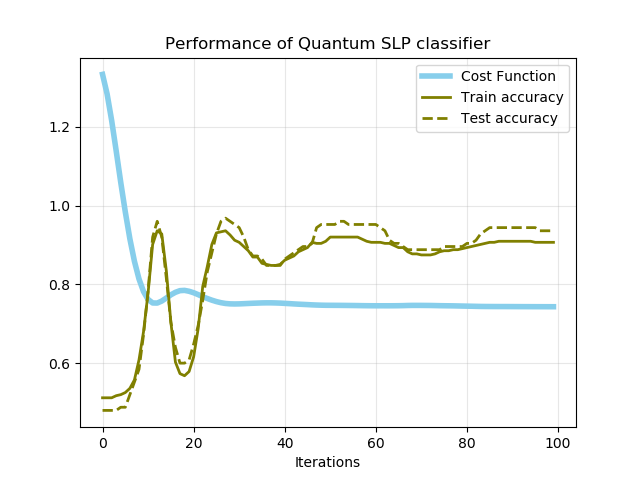
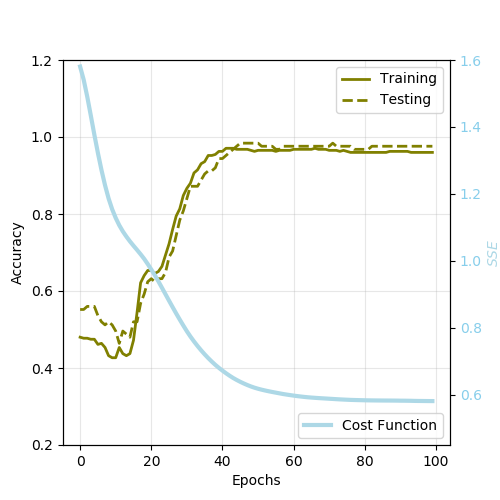
All experiments ok! code to fix

diff --git a/Data_viz.py b/Data_viz.py
@@ -1,19 +1,19 @@
 import seaborn as sns, numpy as np, matplotlib.pyplot as plt, pandas as pd
-n=1000
-m1=-3
-m2=3
-
-df1 = pd.DataFrame((np.random.randn(n)+m1).reshape(-1,2), columns=['x','y'])
-df2 = pd.DataFrame((np.random.randn(n)+m2).reshape(-1,2), columns=['x','y'])
-df3 = pd.DataFrame(df1.values+df2.values, columns=['x','y'])
-df1['kind'] = 'dist1'
-df2['kind'] = 'dist2'
-df3['kind'] = 'dist1+dist2'
-df=pd.concat([df1,df2,df3])
+# n=1000
+# m1 = -3
+# m2 = 3
+#
+# df1 = pd.DataFrame((np.random.randn(n)+m1).reshape(-1,2), columns=['x','y'])
+# df2 = pd.DataFrame((np.random.randn(n)+m2).reshape(-1,2), columns=['x','y'])
+# df3 = pd.DataFrame(df1.values+df2.values, columns=['x','y'])
+# df1['kind'] = 'dist1'
+# df2['kind'] = 'dist2'
+# df3['kind'] = 'dist1+dist2'
+# df=pd.concat([df1,df2,df3])
 
 df = pd.DataFrame(X, columns=['$x_1$','$x_2$'])
-df['kind'] = Y = np.where(y == 0, 'class -1', 'class 1')
-
+Y = np.where(y == 0, 'class 0', 'class 1')
+df['kind'] = Y
 
 def multivariateGrid(col_x, col_y, col_k, df, k_is_color=False, scatter_alpha=.5):
     def colored_scatter(x, y, c=None):
@@ -78,15 +78,27 @@ import numpy as np
 import pandas as pd
 
 iterations = range(100)
+plt.figure(figsize=(5,5))
 # multiple line plot
-plt.plot(iterations, cost_vector, marker='', markerfacecolor='blue', markersize=12, color='skyblue', linewidth=4, label="Cost Function")
-plt.plot(iterations, train_vector, marker='', color='olive', linewidth=2, label="Train accuracy")
-plt.plot(iterations, val_vector, marker='', color='olive', linewidth=2, linestyle='dashed', label="Test accuracy")
+#plt.figure(figsize=(5,5))
+plt.tight_layout()
+plt.plot(iterations, train_vector, marker='', color='olive', linewidth=2, label="Training")
+plt.plot(iterations, val_vector, marker='', color='olive', linewidth=2, linestyle='dashed', label="Testing")
 plt.grid(alpha=0.3)
 plt.legend()
-plt.title('Performance of Quantum SLP classifier')
-plt.xlabel('Iterations')
+plt.ylim(0.2,1.2)
+#plt.title('Performance of Quantum SLP classifier')
+plt.xlabel('Epochs')
+plt.ylabel('Accuracy')
+plt2=plt.twinx()
+# plt.plot(iterations, cost_vector, marker='', markerfacecolor='blue', markersize=12, color='skyblue', linewidth=4, label="Cost Function")
+plt.plot(iterations, cost_vector, marker='', markerfacecolor='lightblue', markersize=12, color='lightblue', linewidth=3, label="Cost Function")
+plt2.set_ylabel(r"$SSE$",color="lightblue")
+plt2.tick_params(axis='y', labelcolor='skyblue')
+plt.ylim(0.45,1.6)
+plt2.legend(loc = 'lower right')
 plt.savefig('Performance.png')
 plt.show()
 plt.close()
 
+#training metric

diff --git a/Quantum _SLP_simulated_data.py b/Quantum _SLP_simulated_data.py
@@ -11,14 +11,14 @@ from Utils_qml import *
 
 # Simulated data
 from sklearn import datasets
-X, y = datasets.make_blobs(n_samples=500, centers=2,
+X, y = datasets.make_blobs(n_samples=500, centers=[[0.2, 0.8],[0.7, 0.1]],
                            n_features=2, center_box=(0, 1),
-                           cluster_std = 0.15, random_state = 5432)
+                           cluster_std = 0.2, random_state = 5432)
 plt.plot(X[:, 0][y == 0], X[:, 1][y == 0], 'g^')
 plt.plot(X[:, 0][y == 1], X[:, 1][y == 1], 'bs')
 plt.show()
 Y = np.where(y == 0, -1, 1)
-
+len(X)
 
 # pad the vectors to size 2^2 with constant values
 padding = 0.3 * np.ones((len(X), 1))
